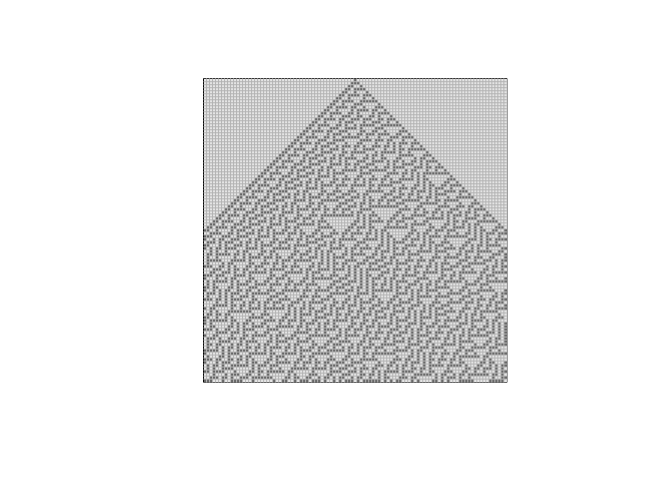
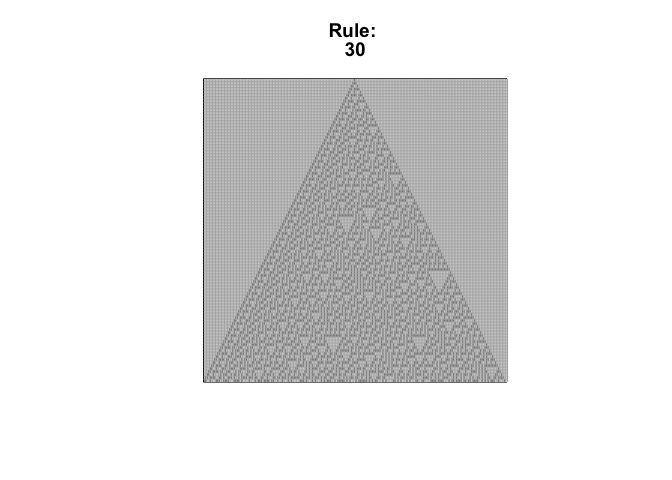
elementary CA all rules

Changed region(s): [[0.2812, 0.1562, 0.7812, 0.8125], [0.4688, 0.0312, 0.5625, 0.125]]

diff --git a/Cellular_automata.md b/Cellular_automata.md
@@ -2,29 +2,22 @@ Cellular_automata
 ================
 2022-07-12
 
-## displaying the grid
+# Objective
 
-``` r
-display <- function(mat){
-  par(pty="s") # square
-  image(t(apply(mat,2,rev)), col=c("grey90", "grey40"), yaxt="n", xaxt="n")
-  grid(nx = ncol(mat), ny = nrow(mat),col="grey70", lty=1)  
-}
-```
+The purpose of this exercise is to understand the behaviour of
+elementary celluarl automata (1D) before moving into modeling 2D
+cellular automata (CA). We will first pick one rule and move on into
+generating all 256 rules.
 
-## Initialize a matrix
+## Rule 30
 
-``` r
-init <- function(n){
-  mat = matrix(0,nrow=n, ncol=n*2)
-  mat[1,ceiling(n)]=1
-  return (mat)
-}
-```
+This rule is special because it matches the condition “Left cell XOR
+(Center cell OR Right cell)”.
 
-## Binary notation for the rules (TBD)
+This makes rule 30 a good place to start for coding.
 
-## Writing loop for Game of Life Rule 30
+Below, a matrix of selected size is initialized and Rule 30 is applied
+for desired number of iterations.
 
 ``` r
 rule30 <- function(mat, iter){
@@ -42,14 +35,87 @@ rule30 <- function(mat, iter){
     }
 
   }
-  display(mat)
+  display(mat,30)
 }
 ```
 
-## Writing loop for Game of made up rule
+## Display an example of 100 iterations of Rule30
 
 ``` r
-rule_mine <- function(mat, iter){
+mat=init(101)
+rule30(mat,100)
+```
+
+![](Cellular_automata_files/figure-gfm/unnamed-chunk-4-1.png)<!-- -->
+
+# The elementary CA numbering system
+
+In all of Wolfram’s elementary cellular automata, an infinite
+one-dimensional array of cellular automaton cells with only two states
+is considered, with each cell in some initial state. At discrete time
+intervals, every cell spontaneously changes state based on its current
+state and the state of its two neighbors.
+
+There are only 8 possible current patterns and Stephen Wolfram
+standardized the order of such configuration.
+
+111, 110, 101, 100, 011, 010, 001, 000
+
+The binary equivalent of the rule number will be the new state of the
+corresponding current pattern.
+
+For instance, rule 30 has the binary equivalent of 00011110:
+
+| current pattern | 111 | 110 | 101 | 100 | 001 | 010 | 001 | 000 |
+|:---------------:|:---:|:---:|:---:|:---:|:---:|:---:|:---:|:---:|
+|    new state    |  0  |  0  |  0  |  1  |  1  |  1  |  1  |  0  |
+
+By this logic, we can drive the new state for all 256 rules.
+
+All we need to do is convert all rule numbers: 0-255 into binary format
+and map each current patter to its corresponding new state.
+
+## Decimal to binary converter
+
+Quick decimal to binary calculator, using strings to make a named list
+in the next step.
+
+``` r
+Dec2Bin <- function(n){
+  bsum = 0
+  bexp = 1
+  while (n >0){
+    mod = n %% 2
+    n = floor(n/2)
+    bsum = bsum + mod * bexp
+    bexp = bexp *10
+  }
+  bsum = sprintf("%08s",toString(format(bsum, scientific = F))) # format to avoid sci notations, e+05 etc
+  
+  return (bsum)
+}
+```
+
+## Setting up state_rules with named list
+
+``` r
+state_rules <- function(rule_num){
+  binstr = strsplit(Dec2Bin(rule_num),"")[[1]]
+  patterns = c("111", "110", "101", "100", "011", "010", "001", "000")
+  new_state = as.list(binstr)
+  names(new_state) = patterns
+  return(new_state)
+}
+```
+
+## Writing loop for Game of Life for all rules
+
+``` r
+rule_any <- function(mat, iter, rule_num = 30){
+  # get state rules
+  state_rule = state_rules(rule_num)
+  
+  # loop through array
   for (k in 1:iter) {
     for (i in 1:ncol(mat)){
       L = i-1
@@ -57,28 +123,26 @@ rule_mine <- function(mat, iter){
       # for wrap around effect
       if (L == 0){L = ncol(mat)}
       if (R == ncol(mat) +1 ){R = 1}
-      # my rule states: mid XOR left OR right)
-      # populating table downwards
-      if (isTRUE(xor(mat[k,i], mat[k,L] || mat[k,R]))) {
-        mat[k+1,i] = 1}
+      cur_pattern = paste(c(mat[k,L], mat[k,i],mat[k,R]), collapse = "") #only two lines of change
+      mat[k+1,i]= strtoi(state_rule[cur_pattern][[1]])
     }
 
   }
-  display(mat)
+  display(mat, rule_num)
 }
 ```
 
-## Display an example of 100 iterations of Rule30
+## Generate all 256 rules (0-255)
+
+As you will see, not all rules have special patterns. But this is
+another topic for another time.
 
 ``` r
-mat=init(51)
-rule30(mat,50)
+mat_size = 51 #pick odd number for better visualization()
+mat=init(mat_size)
+for (i in 0:255){
+  rule_any(mat,mat_size-1,i)
+}
 ```
 
-![](Cellular_automata_files/figure-gfm/unnamed-chunk-5-1.png)<!-- -->
-
-``` r
-rule_mine(mat,50)
-```
-
-![](Cellular_automata_files/figure-gfm/unnamed-chunk-5-2.png)<!-- -->
+![](Cellular_automata_files/figure-gfm/unnamed-chunk-8-1.png)<!-- -->![](Cellular_automata_files/figure-gfm/unnamed-chunk-8-2.png)<!-- -->![](Cellular_automata_files/figure-gfm/unnamed-chunk-8-3.png)<!-- -->![](Cellular_automata_files/figure-gfm/unnamed-chunk-8-4.png)<!-- -->![](Cellular_automata_files/figure-gfm/unnamed-chunk-8-5.png)<!-- -->![](Cellular_automata_files/figure-gfm/unnamed-chunk-8-6.png)<!-- -->![](Cellular_automata_files/figure-gfm/unnamed-chunk-8-7.png)<!-- -->![](Cellular_automata_files/figure-gfm/unnamed-chunk-8-8.png)<!-- -->![](Cellular_automata_files/figure-gfm/unnamed-chunk-8-9.png)<!-- -->![](Cellular_automata_files/figure-gfm/unnamed-chunk-8-10.png)<!-- -->![](Cellular_automata_files/figure-gfm/unnamed-chunk-8-11.png)<!-- -->![](Cellular_automata_files/figure-gfm/unnamed-chunk-8-12.png)<!-- -->![](Cellular_automata_files/figure-gfm/unnamed-chunk-8-13.png)<!-- -->![](Cellular_automata_files/figure-gfm/unnamed-chunk-8-14.png)<!-- -->![](Cellular_automata_files/figure-gfm/unnamed-chunk-8-15.png)<!-- -->![](Cellular_automata_files/figure-gfm/unnamed-chunk-8-16.png)<!-- -->![](Cellular_automata_files/figure-gfm/unnamed-chunk-8-17.png)<!-- -->![](Cellular_automata_files/figure-gfm/unnamed-chunk-8-18.png)<!-- -->![](Cellular_automata_files/figure-gfm/unnamed-chunk-8-19.png)<!-- -->![](Cellular_automata_files/figure-gfm/unnamed-chunk-8-20.png)<!-- -->![](Cellular_automata_files/figure-gfm/unnamed-chunk-8-21.png)<!-- -->![](Cellular_automata_files/figure-gfm/unnamed-chunk-8-22.png)<!-- -->![](Cellular_automata_files/figure-gfm/unnamed-chunk-8-23.png)<!-- -->![](Cellular_automata_files/figure-gfm/unnamed-chunk-8-24.png)<!-- -->![](Cellular_automata_files/figure-gfm/unnamed-chunk-8-25.png)<!-- -->![](Cellular_automata_files/figure-gfm/unnamed-chunk-8-26.png)<!-- -->![](Cellular_automata_files/figure-gfm/unnamed-chunk-8-27.png)<!-- -->![](Cellular_automata_files/figure-gfm/unnamed-chunk-8-28.png)<!-- -->![](Cellular_automata_files/figure-gfm/unnamed-chunk-8-29.png)<!-- -->![](Cellular_automata_files/figure-gfm/unnamed-chunk-8-30.png)<!-- -->![](Cellular_automata_files/figure-gfm/unnamed-chunk-8-31.png)<!-- -->![](Cellular_automata_files/figure-gfm/unnamed-chunk-8-32.png)<!-- -->![](Cellular_automata_files/figure-gfm/unnamed-chunk-8-33.png)<!-- -->![](Cellular_automata_files/figure-gfm/unnamed-chunk-8-34.png)<!-- -->![](Cellular_automata_files/figure-gfm/unnamed-chunk-8-35.png)<!-- -->![](Cellular_automata_files/figure-gfm/unnamed-chunk-8-36.png)<!-- -->![](Cellular_automata_files/figure-gfm/unnamed-chunk-8-37.png)<!-- -->![](Cellular_automata_files/figure-gfm/unnamed-chunk-8-38.png)<!-- -->![](Cellular_automata_files/figure-gfm/unnamed-chunk-8-39.png)<!-- -->![](Cellular_automata_files/figure-gfm/unnamed-chunk-8-40.png)<!-- -->![](Cellular_automata_files/figure-gfm/unnamed-chunk-8-41.png)<!-- -->![](Cellular_automata_files/figure-gfm/unnamed-chunk-8-42.png)<!-- -->![](Cellular_automata_files/figure-gfm/unnamed-chunk-8-43.png)<!-- -->![](Cellular_automata_files/figure-gfm/unnamed-chunk-8-44.png)<!-- -->![](Cellular_automata_files/figure-gfm/unnamed-chunk-8-45.png)<!-- -->![](Cellular_automata_files/figure-gfm/unnamed-chunk-8-46.png)<!-- -->![](Cellular_automata_files/figure-gfm/unnamed-chunk-8-47.png)<!-- -->![](Cellular_automata_files/figure-gfm/unnamed-chunk-8-48.png)<!-- -->![](Cellular_automata_files/figure-gfm/unnamed-chunk-8-49.png)<!-- -->![](Cellular_automata_files/figure-gfm/unnamed-chunk-8-50.png)<!-- -->![](Cellular_automata_files/figure-gfm/unnamed-chunk-8-51.png)<!-- -->![](Cellular_automata_files/figure-gfm/unnamed-chunk-8-52.png)<!-- -->![](Cellular_automata_files/figure-gfm/unnamed-chunk-8-53.png)<!-- -->![](Cellular_automata_files/figure-gfm/unnamed-chunk-8-54.png)<!-- -->![](Cellular_automata_files/figure-gfm/unnamed-chunk-8-55.png)<!-- -->![](Cellular_automata_files/figure-gfm/unnamed-chunk-8-56.png)<!-- -->![](Cellular_automata_files/figure-gfm/unnamed-chunk-8-57.png)<!-- -->![](Cellular_automata_files/figure-gfm/unnamed-chunk-8-58.png)<!-- -->![](Cellular_automata_files/figure-gfm/unnamed-chunk-8-59.png)<!-- -->![](Cellular_automata_files/figure-gfm/unnamed-chunk-8-60.png)<!-- -->![](Cellular_automata_files/figure-gfm/unnamed-chunk-8-61.png)<!-- -->![](Cellular_automata_files/figure-gfm/unnamed-chunk-8-62.png)<!-- -->![](Cellular_automata_files/figure-gfm/unnamed-chunk-8-63.png)<!-- -->![](Cellular_automata_files/figure-gfm/unnamed-chunk-8-64.png)<!-- -->![](Cellular_automata_files/figure-gfm/unnamed-chunk-8-65.png)<!-- -->![](Cellular_automata_files/figure-gfm/unnamed-chunk-8-66.png)<!-- -->![](Cellular_automata_files/figure-gfm/unnamed-chunk-8-67.png)<!-- -->![](Cellular_automata_files/figure-gfm/unnamed-chunk-8-68.png)<!-- -->![](Cellular_automata_files/figure-gfm/unnamed-chunk-8-69.png)<!-- -->![](Cellular_automata_files/figure-gfm/unnamed-chunk-8-70.png)<!-- -->![](Cellular_automata_files/figure-gfm/unnamed-chunk-8-71.png)<!-- -->![](Cellular_automata_files/figure-gfm/unnamed-chunk-8-72.png)<!-- -->![](Cellular_automata_files/figure-gfm/unnamed-chunk-8-73.png)<!-- -->![](Cellular_automata_files/figure-gfm/unnamed-chunk-8-74.png)<!-- -->![](Cellular_automata_files/figure-gfm/unnamed-chunk-8-75.png)<!-- -->![](Cellular_automata_files/figure-gfm/unnamed-chunk-8-76.png)<!-- -->![](Cellular_automata_files/figure-gfm/unnamed-chunk-8-77.png)<!-- -->![](Cellular_automata_files/figure-gfm/unnamed-chunk-8-78.png)<!-- -->![](Cellular_automata_files/figure-gfm/unnamed-chunk-8-79.png)<!-- -->![](Cellular_automata_files/figure-gfm/unnamed-chunk-8-80.png)<!-- -->![](Cellular_automata_files/figure-gfm/unnamed-chunk-8-81.png)<!-- -->![](Cellular_automata_files/figure-gfm/unnamed-chunk-8-82.png)<!-- -->![](Cellular_automata_files/figure-gfm/unnamed-chunk-8-83.png)<!-- -->![](Cellular_automata_files/figure-gfm/unnamed-chunk-8-84.png)<!-- -->![](Cellular_automata_files/figure-gfm/unnamed-chunk-8-85.png)<!-- -->![](Cellular_automata_files/figure-gfm/unnamed-chunk-8-86.png)<!-- -->![](Cellular_automata_files/figure-gfm/unnamed-chunk-8-87.png)<!-- -->![](Cellular_automata_files/figure-gfm/unnamed-chunk-8-88.png)<!-- -->![](Cellular_automata_files/figure-gfm/unnamed-chunk-8-89.png)<!-- -->![](Cellular_automata_files/figure-gfm/unnamed-chunk-8-90.png)<!-- -->![](Cellular_automata_files/figure-gfm/unnamed-chunk-8-91.png)<!-- -->![](Cellular_automata_files/figure-gfm/unnamed-chunk-8-92.png)<!-- -->![](Cellular_automata_files/figure-gfm/unnamed-chunk-8-93.png)<!-- -->![](Cellular_automata_files/figure-gfm/unnamed-chunk-8-94.png)<!-- -->![](Cellular_automata_files/figure-gfm/unnamed-chunk-8-95.png)<!-- -->![](Cellular_automata_files/figure-gfm/unnamed-chunk-8-96.png)<!-- -->![](Cellular_automata_files/figure-gfm/unnamed-chunk-8-97.png)<!-- -->![](Cellular_automata_files/figure-gfm/unnamed-chunk-8-98.png)<!-- -->![](Cellular_automata_files/figure-gfm/unnamed-chunk-8-99.png)<!-- -->![](Cellular_automata_files/figure-gfm/unnamed-chunk-8-100.png)<!-- -->![](Cellular_automata_files/figure-gfm/unnamed-chunk-8-101.png)<!-- -->![](Cellular_automata_files/figure-gfm/unnamed-chunk-8-102.png)<!-- -->![](Cellular_automata_files/figure-gfm/unnamed-chunk-8-103.png)<!-- -->![](Cellular_automata_files/figure-gfm/unnamed-chunk-8-104.png)<!-- -->![](Cellular_automata_files/figure-gfm/unnamed-chunk-8-105.png)<!-- -->![](Cellular_automata_files/figure-gfm/unnamed-chunk-8-106.png)<!-- -->![](Cellular_automata_files/figure-gfm/unnamed-chunk-8-107.png)<!-- -->![](Cellular_automata_files/figure-gfm/unnamed-chunk-8-108.png)<!-- -->![](Cellular_automata_files/figure-gfm/unnamed-chunk-8-109.png)<!-- -->![](Cellular_automata_files/figure-gfm/unnamed-chunk-8-110.png)<!-- -->![](Cellular_automata_files/figure-gfm/unnamed-chunk-8-111.png)<!-- -->![](Cellular_automata_files/figure-gfm/unnamed-chunk-8-112.png)<!-- -->![](Cellular_automata_files/figure-gfm/unnamed-chunk-8-113.png)<!-- -->![](Cellular_automata_files/figure-gfm/unnamed-chunk-8-114.png)<!-- -->![](Cellular_automata_files/figure-gfm/unnamed-chunk-8-115.png)<!-- -->![](Cellular_automata_files/figure-gfm/unnamed-chunk-8-116.png)<!-- -->![](Cellular_automata_files/figure-gfm/unnamed-chunk-8-117.png)<!-- -->![](Cellular_automata_files/figure-gfm/unnamed-chunk-8-118.png)<!-- -->![](Cellular_automata_files/figure-gfm/unnamed-chunk-8-119.png)<!-- -->![](Cellular_automata_files/figure-gfm/unnamed-chunk-8-120.png)<!-- -->![](Cellular_automata_files/figure-gfm/unnamed-chunk-8-121.png)<!-- -->![](Cellular_automata_files/figure-gfm/unnamed-chunk-8-122.png)<!-- -->![](Cellular_automata_files/figure-gfm/unnamed-chunk-8-123.png)<!-- -->![](Cellular_automata_files/figure-gfm/unnamed-chunk-8-124.png)<!-- -->![](Cellular_automata_files/figure-gfm/unnamed-chunk-8-125.png)<!-- -->![](Cellular_automata_files/figure-gfm/unnamed-chunk-8-126.png)<!-- -->![](Cellular_automata_files/figure-gfm/unnamed-chunk-8-127.png)<!-- -->![](Cellular_automata_files/figure-gfm/unnamed-chunk-8-128.png)<!-- -->![](Cellular_automata_files/figure-gfm/unnamed-chunk-8-129.png)<!-- -->![](Cellular_automata_files/figure-gfm/unnamed-chunk-8-130.png)<!-- -->![](Cellular_automata_files/figure-gfm/unnamed-chunk-8-131.png)<!-- -->![](Cellular_automata_files/figure-gfm/unnamed-chunk-8-132.png)<!-- -->![](Cellular_automata_files/figure-gfm/unnamed-chunk-8-133.png)<!-- -->![](Cellular_automata_files/figure-gfm/unnamed-chunk-8-134.png)<!-- -->![](Cellular_automata_files/figure-gfm/unnamed-chunk-8-135.png)<!-- -->![](Cellular_automata_files/figure-gfm/unnamed-chunk-8-136.png)<!-- -->![](Cellular_automata_files/figure-gfm/unnamed-chunk-8-137.png)<!-- -->![](Cellular_automata_files/figure-gfm/unnamed-chunk-8-138.png)<!-- -->![](Cellular_automata_files/figure-gfm/unnamed-chunk-8-139.png)<!-- -->![](Cellular_automata_files/figure-gfm/unnamed-chunk-8-140.png)<!-- -->![](Cellular_automata_files/figure-gfm/unnamed-chunk-8-141.png)<!-- -->![](Cellular_automata_files/figure-gfm/unnamed-chunk-8-142.png)<!-- -->![](Cellular_automata_files/figure-gfm/unnamed-chunk-8-143.png)<!-- -->![](Cellular_automata_files/figure-gfm/unnamed-chunk-8-144.png)<!-- -->![](Cellular_automata_files/figure-gfm/unnamed-chunk-8-145.png)<!-- -->![](Cellular_automata_files/figure-gfm/unnamed-chunk-8-146.png)<!-- -->![](Cellular_automata_files/figure-gfm/unnamed-chunk-8-147.png)<!-- -->![](Cellular_automata_files/figure-gfm/unnamed-chunk-8-148.png)<!-- -->![](Cellular_automata_files/figure-gfm/unnamed-chunk-8-149.png)<!-- -->![](Cellular_automata_files/figure-gfm/unnamed-chunk-8-150.png)<!-- -->![](Cellular_automata_files/figure-gfm/unnamed-chunk-8-151.png)<!-- -->![](Cellular_automata_files/figure-gfm/unnamed-chunk-8-152.png)<!-- -->![](Cellular_automata_files/figure-gfm/unnamed-chunk-8-153.png)<!-- -->![](Cellular_automata_files/figure-gfm/unnamed-chunk-8-154.png)<!-- -->![](Cellular_automata_files/figure-gfm/unnamed-chunk-8-155.png)<!-- -->![](Cellular_automata_files/figure-gfm/unnamed-chunk-8-156.png)<!-- -->![](Cellular_automata_files/figure-gfm/unnamed-chunk-8-157.png)<!-- -->![](Cellular_automata_files/figure-gfm/unnamed-chunk-8-158.png)<!-- -->![](Cellular_automata_files/figure-gfm/unnamed-chunk-8-159.png)<!-- -->![](Cellular_automata_files/figure-gfm/unnamed-chunk-8-160.png)<!-- -->![](Cellular_automata_files/figure-gfm/unnamed-chunk-8-161.png)<!-- -->![](Cellular_automata_files/figure-gfm/unnamed-chunk-8-162.png)<!-- -->![](Cellular_automata_files/figure-gfm/unnamed-chunk-8-163.png)<!-- -->![](Cellular_automata_files/figure-gfm/unnamed-chunk-8-164.png)<!-- -->![](Cellular_automata_files/figure-gfm/unnamed-chunk-8-165.png)<!-- -->![](Cellular_automata_files/figure-gfm/unnamed-chunk-8-166.png)<!-- -->![](Cellular_automata_files/figure-gfm/unnamed-chunk-8-167.png)<!-- -->![](Cellular_automata_files/figure-gfm/unnamed-chunk-8-168.png)<!-- -->![](Cellular_automata_files/figure-gfm/unnamed-chunk-8-169.png)<!-- -->![](Cellular_automata_files/figure-gfm/unnamed-chunk-8-170.png)<!-- -->![](Cellular_automata_files/figure-gfm/unnamed-chunk-8-171.png)<!-- -->![](Cellular_automata_files/figure-gfm/unnamed-chunk-8-172.png)<!-- -->![](Cellular_automata_files/figure-gfm/unnamed-chunk-8-173.png)<!-- -->![](Cellular_automata_files/figure-gfm/unnamed-chunk-8-174.png)<!-- -->![](Cellular_automata_files/figure-gfm/unnamed-chunk-8-175.png)<!-- -->![](Cellular_automata_files/figure-gfm/unnamed-chunk-8-176.png)<!-- -->![](Cellular_automata_files/figure-gfm/unnamed-chunk-8-177.png)<!-- -->![](Cellular_automata_files/figure-gfm/unnamed-chunk-8-178.png)<!-- -->![](Cellular_automata_files/figure-gfm/unnamed-chunk-8-179.png)<!-- -->![](Cellular_automata_files/figure-gfm/unnamed-chunk-8-180.png)<!-- -->![](Cellular_automata_files/figure-gfm/unnamed-chunk-8-181.png)<!-- -->![](Cellular_automata_files/figure-gfm/unnamed-chunk-8-182.png)<!-- -->![](Cellular_automata_files/figure-gfm/unnamed-chunk-8-183.png)<!-- -->![](Cellular_automata_files/figure-gfm/unnamed-chunk-8-184.png)<!-- -->![](Cellular_automata_files/figure-gfm/unnamed-chunk-8-185.png)<!-- -->![](Cellular_automata_files/figure-gfm/unnamed-chunk-8-186.png)<!-- -->![](Cellular_automata_files/figure-gfm/unnamed-chunk-8-187.png)<!-- -->![](Cellular_automata_files/figure-gfm/unnamed-chunk-8-188.png)<!-- -->![](Cellular_automata_files/figure-gfm/unnamed-chunk-8-189.png)<!-- -->![](Cellular_automata_files/figure-gfm/unnamed-chunk-8-190.png)<!-- -->![](Cellular_automata_files/figure-gfm/unnamed-chunk-8-191.png)<!-- -->![](Cellular_automata_files/figure-gfm/unnamed-chunk-8-192.png)<!-- -->![](Cellular_automata_files/figure-gfm/unnamed-chunk-8-193.png)<!-- -->![](Cellular_automata_files/figure-gfm/unnamed-chunk-8-194.png)<!-- -->![](Cellular_automata_files/figure-gfm/unnamed-chunk-8-195.png)<!-- -->![](Cellular_automata_files/figure-gfm/unnamed-chunk-8-196.png)<!-- -->![](Cellular_automata_files/figure-gfm/unnamed-chunk-8-197.png)<!-- -->![](Cellular_automata_files/figure-gfm/unnamed-chunk-8-198.png)<!-- -->![](Cellular_automata_files/figure-gfm/unnamed-chunk-8-199.png)<!-- -->![](Cellular_automata_files/figure-gfm/unnamed-chunk-8-200.png)<!-- -->![](Cellular_automata_files/figure-gfm/unnamed-chunk-8-201.png)<!-- -->![](Cellular_automata_files/figure-gfm/unnamed-chunk-8-202.png)<!-- -->![](Cellular_automata_files/figure-gfm/unnamed-chunk-8-203.png)<!-- -->![](Cellular_automata_files/figure-gfm/unnamed-chunk-8-204.png)<!-- -->![](Cellular_automata_files/figure-gfm/unnamed-chunk-8-205.png)<!-- -->![](Cellular_automata_files/figure-gfm/unnamed-chunk-8-206.png)<!-- -->![](Cellular_automata_files/figure-gfm/unnamed-chunk-8-207.png)<!-- -->![](Cellular_automata_files/figure-gfm/unnamed-chunk-8-208.png)<!-- -->![](Cellular_automata_files/figure-gfm/unnamed-chunk-8-209.png)<!-- -->![](Cellular_automata_files/figure-gfm/unnamed-chunk-8-210.png)<!-- -->![](Cellular_automata_files/figure-gfm/unnamed-chunk-8-211.png)<!-- -->![](Cellular_automata_files/figure-gfm/unnamed-chunk-8-212.png)<!-- -->![](Cellular_automata_files/figure-gfm/unnamed-chunk-8-213.png)<!-- -->![](Cellular_automata_files/figure-gfm/unnamed-chunk-8-214.png)<!-- -->![](Cellular_automata_files/figure-gfm/unnamed-chunk-8-215.png)<!-- -->![](Cellular_automata_files/figure-gfm/unnamed-chunk-8-216.png)<!-- -->![](Cellular_automata_files/figure-gfm/unnamed-chunk-8-217.png)<!-- -->![](Cellular_automata_files/figure-gfm/unnamed-chunk-8-218.png)<!-- -->![](Cellular_automata_files/figure-gfm/unnamed-chunk-8-219.png)<!-- -->![](Cellular_automata_files/figure-gfm/unnamed-chunk-8-220.png)<!-- -->![](Cellular_automata_files/figure-gfm/unnamed-chunk-8-221.png)<!-- -->![](Cellular_automata_files/figure-gfm/unnamed-chunk-8-222.png)<!-- -->![](Cellular_automata_files/figure-gfm/unnamed-chunk-8-223.png)<!-- -->![](Cellular_automata_files/figure-gfm/unnamed-chunk-8-224.png)<!-- -->![](Cellular_automata_files/figure-gfm/unnamed-chunk-8-225.png)<!-- -->![](Cellular_automata_files/figure-gfm/unnamed-chunk-8-226.png)<!-- -->![](Cellular_automata_files/figure-gfm/unnamed-chunk-8-227.png)<!-- -->![](Cellular_automata_files/figure-gfm/unnamed-chunk-8-228.png)<!-- -->![](Cellular_automata_files/figure-gfm/unnamed-chunk-8-229.png)<!-- -->![](Cellular_automata_files/figure-gfm/unnamed-chunk-8-230.png)<!-- -->![](Cellular_automata_files/figure-gfm/unnamed-chunk-8-231.png)<!-- -->![](Cellular_automata_files/figure-gfm/unnamed-chunk-8-232.png)<!-- -->![](Cellular_automata_files/figure-gfm/unnamed-chunk-8-233.png)<!-- -->![](Cellular_automata_files/figure-gfm/unnamed-chunk-8-234.png)<!-- -->![](Cellular_automata_files/figure-gfm/unnamed-chunk-8-235.png)<!-- -->![](Cellular_automata_files/figure-gfm/unnamed-chunk-8-236.png)<!-- -->![](Cellular_automata_files/figure-gfm/unnamed-chunk-8-237.png)<!-- -->![](Cellular_automata_files/figure-gfm/unnamed-chunk-8-238.png)<!-- -->![](Cellular_automata_files/figure-gfm/unnamed-chunk-8-239.png)<!-- -->![](Cellular_automata_files/figure-gfm/unnamed-chunk-8-240.png)<!-- -->![](Cellular_automata_files/figure-gfm/unnamed-chunk-8-241.png)<!-- -->![](Cellular_automata_files/figure-gfm/unnamed-chunk-8-242.png)<!-- -->![](Cellular_automata_files/figure-gfm/unnamed-chunk-8-243.png)<!-- -->![](Cellular_automata_files/figure-gfm/unnamed-chunk-8-244.png)<!-- -->![](Cellular_automata_files/figure-gfm/unnamed-chunk-8-245.png)<!-- -->![](Cellular_automata_files/figure-gfm/unnamed-chunk-8-246.png)<!-- -->![](Cellular_automata_files/figure-gfm/unnamed-chunk-8-247.png)<!-- -->![](Cellular_automata_files/figure-gfm/unnamed-chunk-8-248.png)<!-- -->![](Cellular_automata_files/figure-gfm/unnamed-chunk-8-249.png)<!-- -->![](Cellular_automata_files/figure-gfm/unnamed-chunk-8-250.png)<!-- -->![](Cellular_automata_files/figure-gfm/unnamed-chunk-8-251.png)<!-- -->![](Cellular_automata_files/figure-gfm/unnamed-chunk-8-252.png)<!-- -->![](Cellular_automata_files/figure-gfm/unnamed-chunk-8-253.png)<!-- -->![](Cellular_automata_files/figure-gfm/unnamed-chunk-8-254.png)<!-- -->![](Cellular_automata_files/figure-gfm/unnamed-chunk-8-255.png)<!-- -->![](Cellular_automata_files/figure-gfm/unnamed-chunk-8-256.png)<!-- -->

diff --git a/README.md b/README.md
@@ -1,4 +1,5 @@
 # Random spontaneous R projects
 
 
-- :white_check_mark: Cellular Automata(rule 30)
+- :white_check_mark: Elementary Cellular Automata(rules 0-255)
+- [] Cellular Automata
